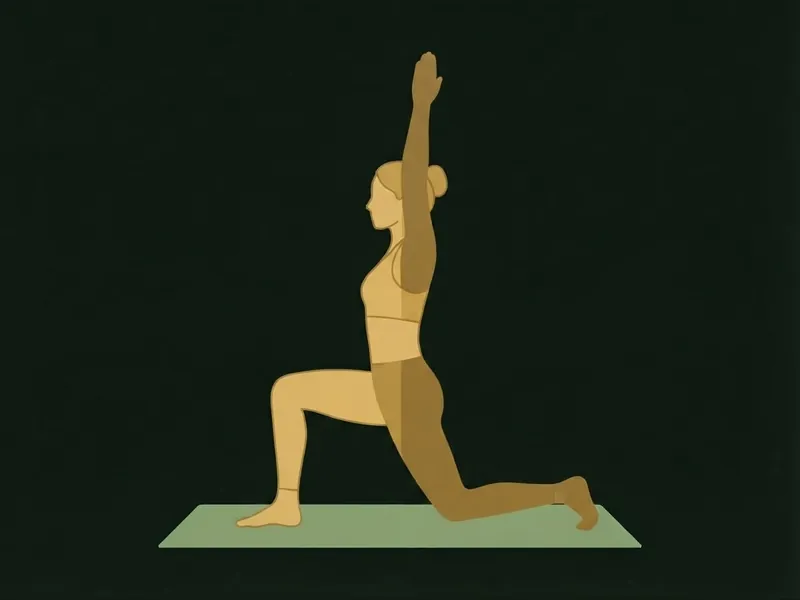
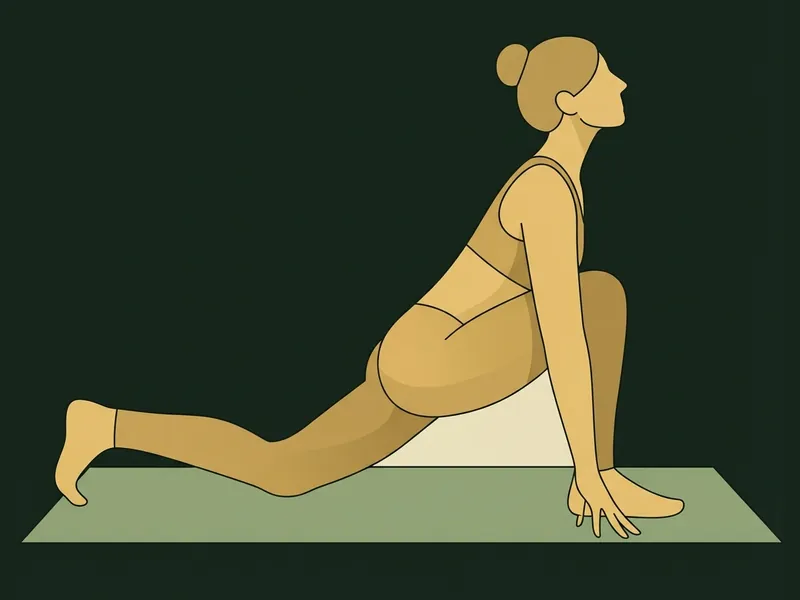
Yoga: la estocada baja con las manos en el suelo
La ilustracion que rehizo Camila. Sube la version de las ilustraciones a 3
para que reemplace a la guardada en cada navegador.

Changed region(s): [[0.0312, 0.06, 0.9688, 0.93]]

diff --git a/components/yoga/FiguraYoga.tsx b/components/yoga/FiguraYoga.tsx
@@ -903,7 +903,7 @@ function Tronco({ f, color, extra }: { f: Esqueleto; color: string; extra?: numb
    mostrando la que tenía guardada. Este número va pegado a la dirección de
    la imagen: al subirlo, todas se piden de nuevo. Se sube cada vez que se
    reemplaza una ilustración. */
-export const VERSION_ILUSTRACIONES = 2;
+export const VERSION_ILUSTRACIONES = 3;
 
 const CON_IMAGEN = new Set<string>([
   "aguila",

diff --git a/public/sw.js b/public/sw.js
@@ -14,7 +14,7 @@
      inconsistentes, así que es mejor avisar que hace falta conexión.
 */
 
-const VERSION = "floema-v8";
+const VERSION = "floema-v9";
 const SHELL = `${VERSION}-shell`;
 const DATOS = `${VERSION}-datos`;
 
